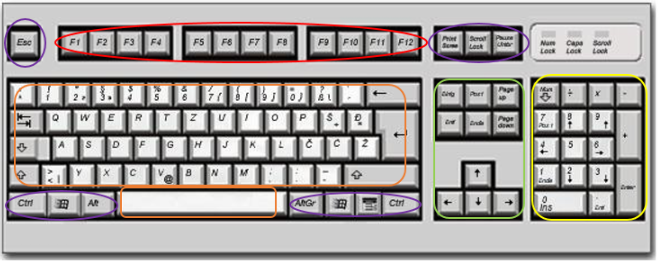
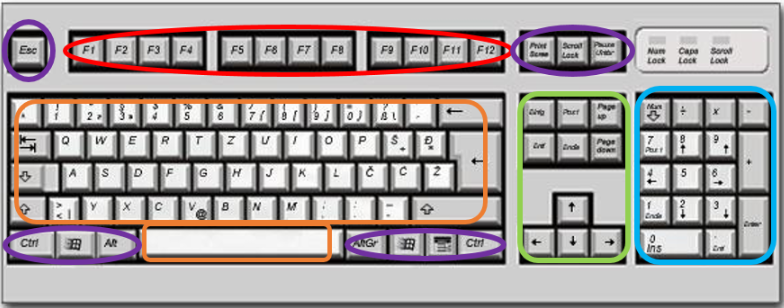
Add files via upload

diff --git a/index.viri.html b/index.viri.html
@@ -47,22 +47,22 @@
 			
 			
 				<h2>viri literature</h2>
-				<p>Mohorič, B. (2006). Urejanje besedila: Zgradba računalnika. Pridobljeno s http://www2.arnes.si/~bmohor3/Urejanje_Besedila/index.html<br>
-				<br>Divjak, S, Drofenik, D, Kastelic, M, Kavčič, A, Lončarić, T,  Marolt, M, Privošnik, M, Vehovec, A. (2002)Tehnik računalništva. Pridobljeno s http://www.egradiva.net/01_datoteka.html<br>
-				<br>Računalništvo. Pridobljeno s http://egradiva.scng.si/racunalnistvo/rso/asembler/index.html<br>
-				<br>Srednja zdravstvena šola.(2010/2011).Zgradba in delovanje računalnika. Pridobljeno s https://dijaski.net/gradivo/rif_ref_racunalnik_08__zgradba_in_delovanje<br>
-				<br>http://www.educa.fmf.uni-lj.si/izodel/sola/2000/di/Postrak/zgradba_racunalnika/opticni_citalnik.htm
+				<p>Mohorič, B. (2006). Urejanje besedila: Zgradba računalnika. Pridobljeno s <a href="http://www2.arnes.si/~bmohor3/Urejanje_Besedila/index.html" target="_blank">Link</a><br>
+				<br>Divjak, S, Drofenik, D, Kastelic, M, Kavčič, A, Lončarić, T,  Marolt, M, Privošnik, M, Vehovec, A. (2002)Tehnik računalništva. Pridobljeno s <a href="http://www.egradiva.net/01_datoteka.html" target="_blank">Link</a><br>
+				<br>Računalništvo. Pridobljeno s <a href="http://egradiva.scng.si/racunalnistvo/rso/asembler/index.html" target="_blank">Link</a><br>
+				<br>Srednja zdravstvena šola.(2010/2011).Zgradba in delovanje računalnika. Pridobljeno s <a href=" https://dijaski.net/gradivo/rif_ref_racunalnik_08__zgradba_in_delovanje" target="_blank">Link</a><br>
+				<br>Zgradba računalnika: <a href="http://www.educa.fmf.uni-lj.si/izodel/sola/2000/di/Postrak/zgradba_racunalnika/opticni_citalnik.htm" target="_blank">Link</a>
 </p>
 				<h2>viri slik</h2>
-				<p><b>Tipkovnica:</b>https://pixabay.com/vectors/keyboard-electronic-computer-311803/<br>
-				<br><b>Tipkovnica z označenimi tipkami:</b> CC BY-NC-SA, Alja, Prirejeno po http://wiki.fmf.uni-lj.si/wiki/Tipkovnica, CC BY-NC-SA<br>
-				<br><b>Zasloni: </b>https://pixabay.com/illustrations/imac-ipad-iphone-macbook-laptop-1999636/<br>
-				<br><b>Fotoaparat:</b> https://pixabay.com/photos/black-body-camera-canon-digital-2507/<br>
-				<br><b>Mikrofon:</b> https://pixabay.com/photos/mic-microphone-sound-check-sing-1132528/<br>
-				<br><b>Optični bralnik: </b>https://pixabay.com/vectors/scanner-digital-scanner-computer-146465/<br>
-				<br><b>Laserski tiskalnik:</b> https://pixabay.com/vectors/laser-printer-printer-149815/<br>
-				<br><b>Črnilni tiskalnik:</b> https://pixabay.com/illustrations/print-head-ink-jet-printer-ink-3254729/<br>
-				<br><b>Miška:</b> https://pixabay.com/vectors/mouse-computer-hardware-input-160032/<br>
+				<p><b>Tipkovnica:</b> Pridobljeno s: <a href="https://pixabay.com/vectors/keyboard-electronic-computer-311803/" target="_blank">Link</a><br>
+				<br><b>Tipkovnica z označenimi tipkami: </b> CC BY-NC-SA, Alja, Prirejeno po http://wiki.fmf.uni-lj.si/wiki/Tipkovnica  (<a href=" http://wiki.fmf.uni-lj.si/wiki/Tipkovnica" target="_blank">Link</a>), CC BY-NC-SA<br>
+				<br><b>Zasloni: </b> Pridobljeno s: <a href="https://pixabay.com/illustrations/imac-ipad-iphone-macbook-laptop-1999636/" target="_blank">Link</a><br>
+				<br><b>Fotoaparat:</b> Pridobljeno s: <a href="https://pixabay.com/photos/black-body-camera-canon-digital-2507/" target="_blank">Link</a><br>
+				<br><b>Mikrofon:</b> Pridobljeno s: <a href="https://pixabay.com/photos/mic-microphone-sound-check-sing-1132528/" target="_blank">Link</a><br>
+				<br><b>Optični bralnik: </b> Pridobljeno s: <a href="https://pixabay.com/vectors/scanner-digital-scanner-computer-146465/" target="_blank">Link</a><br>
+				<br><b>Laserski tiskalnik:</b> Pridobljeno s: <a href="https://pixabay.com/vectors/laser-printer-printer-149815/" target="_blank">Link</a><br>
+				<br><b>Črnilni tiskalnik(oz. barve):</b> Pridobljeno s: <a href="https://pixabay.com/illustrations/print-head-ink-jet-printer-ink-3254729/" target="_blank">Link</a><br>
+				<br><b>Miška:</b> Pridobljeno s: <a href="https://pixabay.com/vectors/mouse-computer-hardware-input-160032/" target="_blank">Link</a><br>
 				<br><b>Miška(delovanje): </b>By <a href="//commons.wikimedia.org/wiki/File:Mouse-mechanism-cutaway.png" title="File:Mouse-mechanism-cutaway.png">Original: </a><a href="https://en.wikipedia.org/wiki/User:Jeremykemp" class="extiw" title="en:User:Jeremykemp">Jeremykemp</a>Vector:<a href="//commons.wikimedia.org/wiki/User:Pbroks13" title="User:Pbroks13">Pbroks13</a> - <a href="//commons.wikimedia.org/wiki/File:Mouse-mechanism-cutaway.png" title="File:Mouse-mechanism-cutaway.png">Mouse-mechanism-cutaway.png</a>, Attribution, <a href="https://commons.wikimedia.org/w/index.php?curid=4802349">Link</a> <br>
 				<br><b>Katodna cev:</b> By <a href="//commons.wikimedia.org/wiki/User:Grm_wnr" title="User:Grm wnr">grm</a><a href="//commons.wikimedia.org/wiki/User_talk:Grm_wnr" title="User talk:Grm wnr">wnr</a> (<a href="https://en.wikipedia.org/wiki/User:Grm_wnr" class="extiw" title="w:User:Grm wnr">home</a><a href="https://en.wikipedia.org/wiki/User_talk:Grm_wnr" class="extiw" title="w:User talk:Grm wnr">wiki</a>) - source code and basic design of <a href="//commons.wikimedia.org/wiki/File:CRT_color.png" title="File:CRT color.png">Image:CRT color.png</a> by <a href="//commons.wikimedia.org/w/index.php?title=User:Peo&amp;action=edit&amp;redlink=1" class="new" title="User:Peo (page does not exist)">Søren Peo Pedersen</a>. Own render with minor fixes and Photoshop enhancements., <a href="http://creativecommons.org/licenses/by-sa/3.0/" title="Creative Commons Attribution-Share Alike 3.0">CC BY-SA 3.0</a>, <a href="https://commons.wikimedia.org/w/index.php?curid=756581">Link</a><br>
 				</p>

diff --git a/index.tip.html b/index.tip.html
@@ -44,7 +44,7 @@
 				  
 			</header>  
 		
-			<img src="slike/tipkovnica.png" width="350" align="right">
+			<img src="slike/tipkovnica.png" width="370" align="right">
 			
 			<section>
 
@@ -56,16 +56,16 @@
 				nekaj posebnih tipk.Vsaka tipka tipkovnice je v bistvu stikalo. Ko pritisneš tipko, 
 				se njeno stikalo sklene in posebno elektronsko vezje odda ustrezni električni signal, 
 				ki ga računalnik razume. Za vsak znak odda vezje drugačen signal.  </p><br>
-				<br><p id="tip"><b>Tipke na tipkovnici je glede na funkcijo mogoče razdeliti v več skupin:</b><br>
-				<font color="orange">Tipke za vnašanje (alfanumerične):</font> Te tipke vključujejo enake tipke za črke, številke, ločila in simbole kot pisalni stroj.<br>
-				<font color="#9900cc">Nadzorne tipke:</font> Te tipke uporabimo same ali skupaj z drugimi tipkami za izvajanje določenih dejanj. Najpogosteje se uporabljajo nadzorne tipke Ctrl, Alt, tipka Windows in Esc.<br>
-				<font color="red">Funkcijske tipke:</font> S funkcijskimi tipkami izvajamo določena opravila. Označene so z F1, F2, F3 itd. do F12. Funkcije teh tipk se med programi razlikujejo.<br>
-				<font color="green">Krmilne tipke:</font> S temi tipkami se premikamo po dokumentih ali spletnih straneh in urejamo besedilo. Vključujejo puščične tipke ter tipke Home, End, Page Up, Page Down, Delete in Insert.<br>
-				<font color="yellow">Številčna tipkovnica:</font> Številčna tipkovnica pride prav, če želite hitro vnašati številke. Tipke so razporejene v obliki kvadrata kot na običajnem računalu ali računskem stroju.
+				<br><p id="tip"><b>Tipke na tipkovnici je glede na funkcijo mogoče razdeliti v več skupin:</b><br><br>
+				<b><font color="orange">Alfanumerične tipke (tipke za vnašanje):</font></b> Te tipke vključujejo enake tipke za črke, številke, ločila in simbole kot pisalni stroj.<br>
+				<b><font color="#9900cc">Nadzorne tipke:</font> </b>Te tipke uporabimo same ali skupaj z drugimi tipkami za izvajanje določenih dejanj. Najpogosteje se uporabljajo nadzorne tipke Ctrl, Alt, tipka Windows in Esc.<br>
+				<b><font color="red">Funkcijske tipke:</font> </b>S funkcijskimi tipkami izvajamo določena opravila. Označene so z F1, F2, F3 itd. do F12. Funkcije teh tipk se med programi razlikujejo.<br>
+				<b><font color="#00cc00">Krmilne tipke:</font></b> S temi tipkami se premikamo po dokumentih ali spletnih straneh in urejamo besedilo. Vključujejo puščične tipke ter tipke Home, End, Page Up, Page Down, Delete in Insert.<br>
+				<b><font color="#0099ff">Številčna tipkovnica:</font></b> Številčna tipkovnica pride prav, če želite hitro vnašati številke. Tipke so razporejene v obliki kvadrata kot na običajnem računalu ali računskem stroju.
 				</p>
 			</section>
 			
-			<img src="slike/skica.png" width="450" align="right">
+			<img src="slike/skica.png" width="440" align="right">
 			
 			<footer>
 			© Alja H.

diff --git a/index.zas.html b/index.zas.html
@@ -57,24 +57,24 @@
 				od  števila   uporabljenih   pik   (pixelpika   na  
 				računalniškem   zaslonu).   Manjši   je pixel, večja je 
 				ločljivost. Razlikujemo barvni ali enobarvni monitor ter LCD 
-				(Liquid CrystalDisplay) ali CRT (Catode Ray Tube) monitor.</p><br>
-				<br><br><br><br><br><br>
-				<br><p>Zaslon je prevlečen s tanko plastjo fosforja v rdeči, 
-				zeleni in modri barvi, v cevi pa so trije topovi, ki 
+				(Liquid CrystalDisplay) ali CRT (Catode Ray Tube) monitor.</p><br><br><br><br><br><br><br>
+				
+				<br><p>Na sliki je prikazana katodna cev, ki jo je izumil Karl Ferdinand Braun.
+				Je prikazovalna naprava, ki je bila uporabljena v večini monitorjev, televizij 
+				in osciloskopov. Bila je uporabljena v večini televizij do poznega 20. stoletja 
+				in prihoda plazemskih zaslonov, zaslonov s tekočimi kristali (LCD), DLP, OLED
+				zaslonov in ostalih tehnologij.</p><br>
+				<p>Zaslon je prevlečen s tanko plastjo fosforja v rdeči, 
+				zeleni in modri barvi, v katodni cevi pa so trije topovi, ki 
 				izstreljujejo proti zaslonu elektrone v treh tankih snopih:
-				v snopu za rdečo, zeleno in modro barvo<b>(2)</b>. Ko snop zadane
-				fosforno plast, na zaslonu zažari majhna pika v ustrezni barvi<b>(8)</b>.
+				v snopu za rdečo, zeleno in modro barvo. Ko snop zadane
+				fosforno plast, na zaslonu zažari majhna pika v ustrezni barvi.
 				Ker so pike zelo majhne, se v očesu zlijejo v enotno barvo, ki 
 				je odvisna od moči, s katero žarijo posamezne pike. Računalnik 
 				seveda ne more nadzirati moči vseh pik, ki žarijo na zaslonu. 
 				Zato več pik združi v slikovni piko ali piksel. Število pikslov,
 				s katerimi monitor prikaže sliko na zaslonu, opredelujeje njegovo 
-				slikovno ločljivost. </p><br>
-				<br><p>Na sliki je prikazana katodna cev, ki jo je izumil Karl Ferdinand Braun,
-				je prikazovalna naprava, ki je bila uporabljena v večini monitorjev, televizij 
-				in osciloskopov. Bila je uporabljena v večini televizij do poznega 20. stoletja 
-				in prihoda plazemskih zaslonov, zaslonov s tekočimi kristali (LCD), DLP, OLED
-				zaslonov in ostalih tehnologij.<br>
+				slikovno ločljivost.<br>
 				
 			</section>
 			

diff --git a/index.ostv.html b/index.ostv.html
@@ -47,8 +47,16 @@
 			<img src="slike/scanner.png" width="400" align="right">
 			
 			<section>
-				<h2>Optični bralnik</h2>
-				<p>Optični bralniki imajo zelo preprosto zasnovo in so sestavljeni le iz nekaj dobro povezanih delov. Plastično ohišje ponavadi vsebuje vrsto zelo gosto postavljenih tipal (tudi 1200 na palec ali 470 na cm), ki so nameščena na paličastem nosilcu, tega pa natančen koračni motorček premika pod stekleno ploščo, na katero položimo želeno predlogo. Na nosilcu s tipalom je tudi tak ali drugačen vir svetlobe, tako da tipala zaznavajo odbito svetlobo. To spremenijo v digitalne vrednosti (številke), ki jih v obliki električnih signalov pošljejo do vmesnika za prenos v računalnik (SCSI, vzporedni ali USB). Od tam naprej delo prevzame programska oprema, ki sprejete barvne vrednosti ustrezno prilagodi (barvno uravnovešanje) in prenese v grafični program.
+				<p>Optični bralniki imajo zelo preprosto zasnovo in so sestavljeni le iz 
+				nekaj dobro povezanih delov. Plastično ohišje ponavadi vsebuje vrsto zelo
+				gosto postavljenih tipal (tudi 1200 na palec ali 470 na cm), ki so nameščena
+				na paličastem nosilcu, tega pa natančen koračni motorček premika pod stekleno
+				ploščo, na katero položimo želeno predlogo. Na nosilcu s tipalom je tudi tak 
+				ali drugačen vir svetlobe, tako da tipala zaznavajo odbito svetlobo.
+				To spremenijo v digitalne vrednosti (številke), ki jih v obliki električnih 
+				signalov pošljejo do vmesnika za prenos v računalnik.
+				Od tam naprej delo prevzame programska oprema, ki sprejete barvne vrednosti
+				ustrezno prilagodi (barvno uravnovešanje) in prenese v grafični program.
 				</p>
 			</section>
 			

diff --git a/index.mis.html b/index.mis.html
@@ -50,17 +50,18 @@
 
 				<p>Računalniška miška je ena izmed najbolj razširjenih naprav 
 				(poleg tipkovnice) za interaktivno delo z računalnikom. Lahko jo 
-				uvrstimo tudi v podskupino vhodnih naprav, kazalne naprave. Običajna 
+				uvrstimo tudi v podskupino vhodnih naprav in sicer kazalne naprave. Običajna 
 				miška je opremljena z gumbi (največkrat tremi), srednja tipka pa je pogosto 
-				kombinirana s kolescem, ki poleg pritiska omogoča tudi vrtenje.</p><br>
+				kombinirana s kolescem, ki poleg pritiska omogoča tudi vrtenje.</p><br><br><br><br><br>
 				
-		<br><p><b>Upravljanje z mehansko miško:</b><br><b>1:</b> Premik miške obrne kroglico.<br>
+				<p class="mis"><b>Upravljanje z mehansko miško:</b><br><b>1:</b> Premik miške obrne kroglico.<br>
 				<b>2:</b> Kolesci X in Y sledita kroglici in preneseta gibanje.<br>
 				<b>3:</b> Optični kodirni diski vključujejo svetlobne luknje.<br>
 				<b>4:</b> Skozi diske svetijo infrardeče LED-diode.<br>
 				<b>5:</b> Senzorji preberejo svetlobne pulze in jih pretvorijo v hitrosti X in Y.<br>
-#Kaj in kako delamo z miško je odvisno od programa, s katerim trenutno delamo. Program mora prepoznati signale, ki prihajajo iz miške preko programskega gonilnika za miško.
-</p>
+				(Kaj in kako delamo z miško je odvisno od programa, s katerim trenutno delamo. 
+				Program mora prepoznati signale, ki prihajajo iz miške preko programskega gonilnika za miško.)
+				</p>
 			</section>
 			
 			<img src="slike/mis.png" width="320" align="right">

diff --git a/index.izh.html b/index.izh.html
@@ -4,7 +4,7 @@
   <head>
 		<title> Moja spletna stran </title>
 		<meta charset="utf-8">
-		<link rel="stylesheet" href="style.css">
+		<link rel="stylesheet" href="style2.css">
 		
 	</head>  
 	
@@ -50,14 +50,15 @@
 			<section>
 			
 				<p>Naloga izhodnih enot oz. naprav je, da informacijo predstavijo
-				v človeku razumljivi obliki ali   jo   shranijo   za   kasnejšo   uporabo.
+				v človeku razumljivi obliki, ali   jo   shranijo   za   kasnejšo   uporabo.
 				Izhodne   naprave   nam   posredujejo   podatke   izračunalnika.  </p>
 				<p>Ukaz, ki si ga vnesel v računalnik, se je izvršil in rezultat je zapisan v 
 				pomnilniku. Seveda bi bilo vse skupaj neprijazno, če bi računalnik prikazal le ta zapis.
-				Niz 0 in 1 iz pomnilnika bi ti povedal zelo malo ali pa sploh nič. Zato ima vsak računalnik 
-				izhodne enote, ki podatke, razumljive računalniku, predstavijo v taki obliki, da so 
-				razumljivi človeku. </p>
+				Niz ničel in enic iz pomnilnika bi ti povedal zelo malo ali pa sploh nič. Zato ima vsak računalnik 
+				izhodne enote, ki podatke, razumljive računalniku predstavijo v človeku razumljivi obliki. </p>
 			</section>
+			
+			<img src="slike/izh.png" width="300">
 			
 			<footer>
 			© Alja H.
@@ -65,33 +66,6 @@
 		
 		</body>
  </html>
-
-
-
-
-
-
-
-
-
-
-
-
-
-
-
-
-
-
-
-
-
-
-
-
-
-
-
 
 
 

diff --git a/index.vh.html b/index.vh.html
@@ -3,7 +3,7 @@
   <head>
 		<title> Moja spletna stran </title>
 		<meta charset="utf-8">
-		<link rel="stylesheet" href="style.css">
+		<link rel="stylesheet" href="style2.css">
 		
 	</head>  
 	
@@ -48,16 +48,19 @@
 			
 			<section>
 				<p>Vhodne enote so računalniške komponente, s katerimi računalniku
-				posredujemo podatke in ukaze.  Med seboj se razlikujejo glede na način kako   
+				posredujemo podatke in ukaze.  Med seboj se razlikujejo glede na način, kako   
 				želiš v računalnik vnesti ukaz.</p>
 				<p>Naloga   vhodnih   naprav   je,   da   informacijo   posredujejo   
 				računalniku   v   razumljivi   obliki. Skozi   vhodne   naprave   računalnik   
-				oskrbujemo   s   podatki.   Vsem   vhodnim   enotam   jeskupno to, da na različne
+				oskrbujemo   s   podatki.   Vsem   vhodnim   enotam   je skupno to, da na različne
 				načine predstavljene podatke preoblikujejo v nize ničel »0« in enic »1« ter jih 
 				posredujejo računalniku.</p>
 				
 				
 			</section>
+		
+			<img src="slike/vh.png" width="300">
+		
 		
 			<footer>
 			© Alja H.

diff --git a/index.mik.html b/index.mik.html
@@ -47,13 +47,11 @@
 			<img src="slike/mikrofon.jpg" width="400" align="right">
 			
 			<section>
-				<p>Ko želiš iz računalnika slišati zvok, potrebuješ zvočnike. Računalnik
-				pošlje niz enic in ničel proti zvočnemu izhodu. Te se v posebnem elektronskem 
-				vezju preoblikujejo v električno nihanje, to pa nato v zvočniku v zvočno 
-				valovanje. Iz zvočnika se zvok širi po zraku. Ko privalovi do tvojega ušesa, 
-				zaslišiš zvok. Kako visok je, kakšno barvo ima in kakšna je njegova moč, je
-				odvisno od tega, kako so v nizu, ki ga je računalnik poslal proti izhodu,
-				razporejene ničle in enice.</p>
+				<p> Brez mikrofonov bi pevca na koncertih slišali le v prvih 
+				vrstah. Mikrofon lahko uporabiš kot vhodno enoto, s katero v računalnik vneseš 
+				zvok. Ko je sprejemnik uho, zaslišiš zvok, ko pa je sprejemnik mikrofon, se 
+				zvočno valovanje preoblikuje v električno nihanje. Tega posebno elektronsko 
+				vezje spremeni v zaporedje ničel in enic, ki jih kot zvok razume le računalnik.</p>
 			</section>
 			
 			

diff --git a/index.html b/index.html
@@ -53,7 +53,7 @@
 		
 		<section>
 		
-			<p>Sem Alja Herga in obiskujem 1.letnik Pedagoške fakultete Univerze v Ljubljani smer 
+			<p>Sem Alja Herga in obiskujem 1.letnik Pedagoške fakultete Univerze v Ljubljani, smer 
 			matematika-računalništvo. Pri predmetu Uporaba programske opreme smo imeli nalogo
 			si izbrati eno temo in na to temo narediti spletno stran. Moja izbira so bile 
 			vhodno izhodne naprave, saj sem poleg že poznanih naprav želela raziskati tudi 
@@ -66,8 +66,8 @@
 			Vhodno izhodne enote omogočajo izmenjavo informacij med računalnikom in njegovim
 			okoljem.V računalniku ni črk, slik in podobno, namesto tega
 			so točno določene kode, sestavljene iz števk 0 in 1. </p>
-			<p>Na tej spletni strani si lahko preberete splošno o vhodnih in izhodnih napravah in
-			pa tudi kako delujejo posamezne naprave.</p>
+			<p>Na tej spletni strani si lahko preberete splošno o vhodnih in izhodnih napravah ter
+			 kako te naprave delujejo.</p>
 				
 		</section>
 		<footer>

diff --git a/index.fot.html b/index.fot.html
@@ -53,8 +53,12 @@
 				je namesto filma v aparatu več optičnih tipal, ki so občutljiva na svetlobo. 
 				Ko se zaslonka fotoaparata odpre, pade svetloba na ta tipala. Vsako tipalo zazna
 				jakost svetlobe, ki je padla nanj. Iz tega podatka posebna elektronika ugotovi, 
-				kakšne barve je svetloba, in pošlje proti računalniku ustrezen signal. Rdečo barvo
-				predstavi npr. z nizom 110000, zeleno z 001100 in modro z 000011.</p>
+				kakšne barve je svetloba in pošlje proti računalniku ustrezen signal. Rdečo barvo
+				predstavi npr. z nizom 110000, zeleno z 001100 in modro z 000011.<br>
+				V računalniku se signali posameznih tipal združijo v fotografijo. Vsako tipalo
+				določi barvo ustrezne točke na fotografiji. Če je tipal malo, oko točk ne zlije
+				v celoto, ampak vidiš točkasto fotografijo - kvadratke. Zato je pri digitalnem 
+				fotoaparatu pomemben podatek število tipal. </p>
 				
 			</section>
 			

diff --git a/index.osti.html b/index.osti.html
@@ -51,7 +51,7 @@
 				ali neprosojne (episkop) slike in jih projicira na površino.
 				Video projektor projicira množico hitro si sledečih sličic. 
 				Zaradi vztrajnosti človeškega očesa se navidezno zlijejo v gibljivo sliko.
-				Svetloba izhaja iz svetila in se zbere v kondenzorju , ki jo oblikuje v
+				Svetloba izhaja iz svetila in se zbere v kondenzorju, ki jo oblikuje v
 				enakomerno svetel snop. Tega pošlje skozi diapozitiv, ki stoji na glavi.
 				Objektiv obrne presevano svetlobo in jo preslika v povečano, pravilno stoječo
 				sliko na projekcijskem zaslonu.</p>

diff --git a/style2.css b/style2.css
@@ -20,7 +20,6 @@ section {
 	background-color:white;
 	color: black;
 	width:1000px;
-	height:232px;
 	float:right;
 	padding:20px;
 }
@@ -29,11 +28,9 @@ img {
 	float: left; 
 	padding: 10px
 } 
- 
-#tip {
-	width: 800px;
-	
-}
+
+
+
 
 
 footer {
